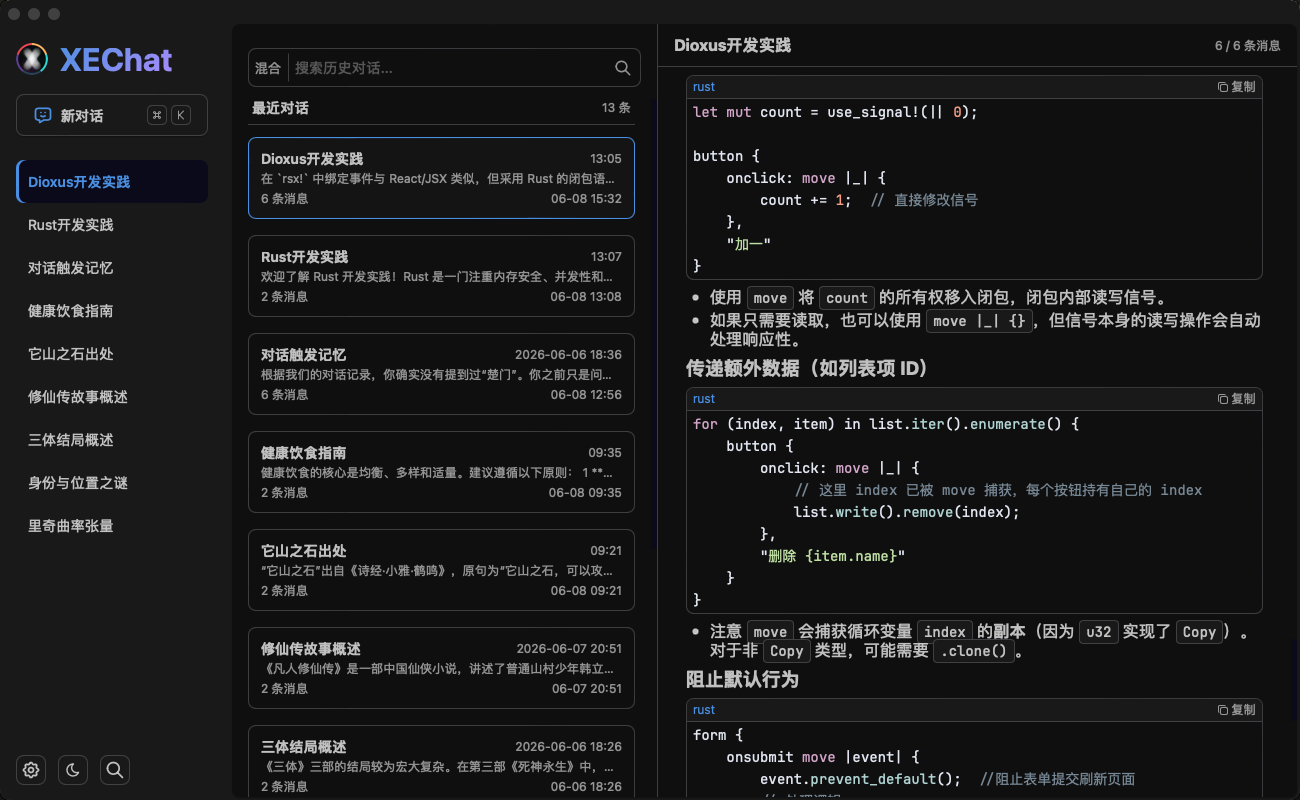
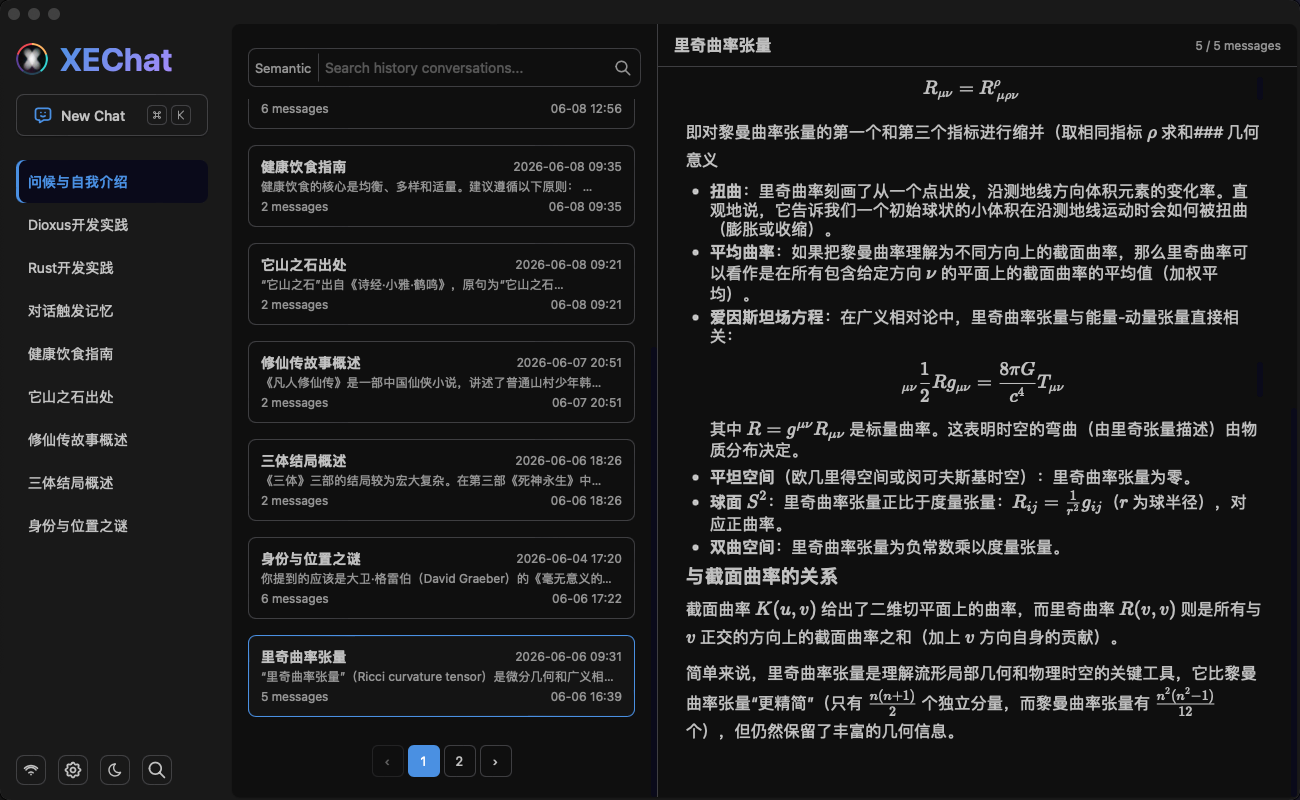
Update intro preview png

diff --git a/README.md b/README.md
@@ -2,6 +2,10 @@
 
 一款基于 Dioxus 的桌面 AI 聊天客户端，支持多模型提供商、智能记忆、语义搜索。
 
+|                           |                        |                      |
+|---------------------------|------------------------|----------------------|
+| <img src="assets/settings.png" style="max-width: 100%; display: inline-block;"> | <img src="assets/search.png" style="max-width: 100%; display: inline-block;"> | <img src="assets/chat.png" style="max-width: 100%; display: inline-block;"> |
+
 ## 特性
 
 - **多模型支持** — DeepSeek、OpenAI、Ollama 及任意 OpenAI 兼容服务
@@ -93,10 +97,6 @@ models/       模型层 → 纯 DTO，零依赖
 | [开发文档](docs/development.md) | 项目结构、组件树、状态管理、样式开发、测试 |
 | [配置说明](docs/configuration.md) | 完整配置示例、环境变量、Provider 路由规则 |
 | [打包指南](docs/packaging.md) | macOS/Linux/Windows 打包流程 |
-
-![](assets/settings.png)
-![](assets/search.png)
-![](assets/chat.png)
 
 ## License
 
